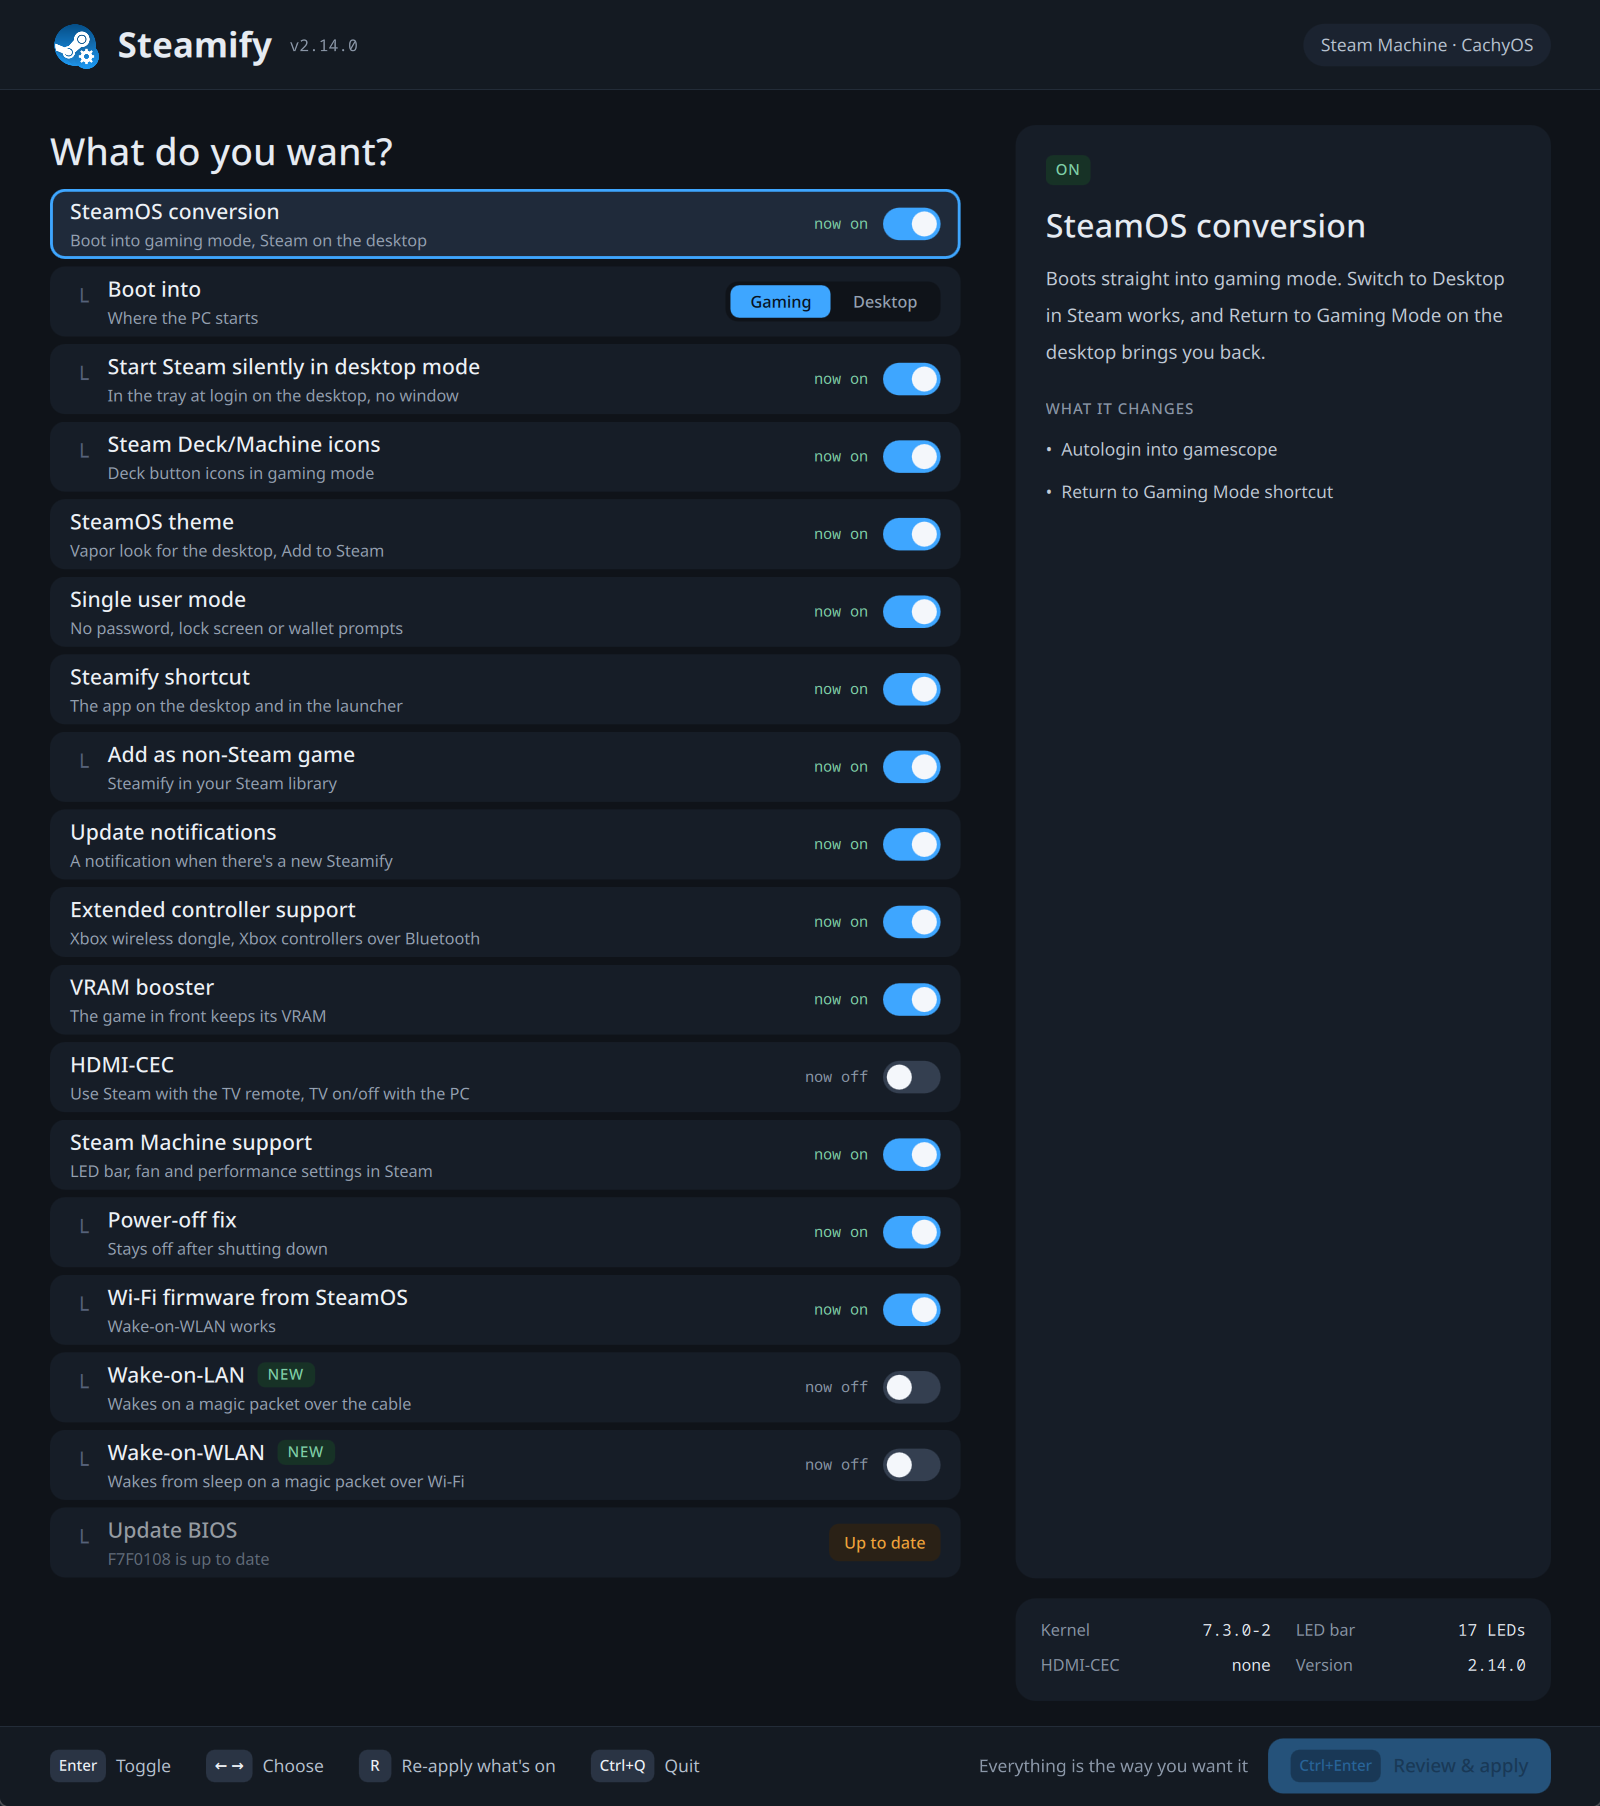
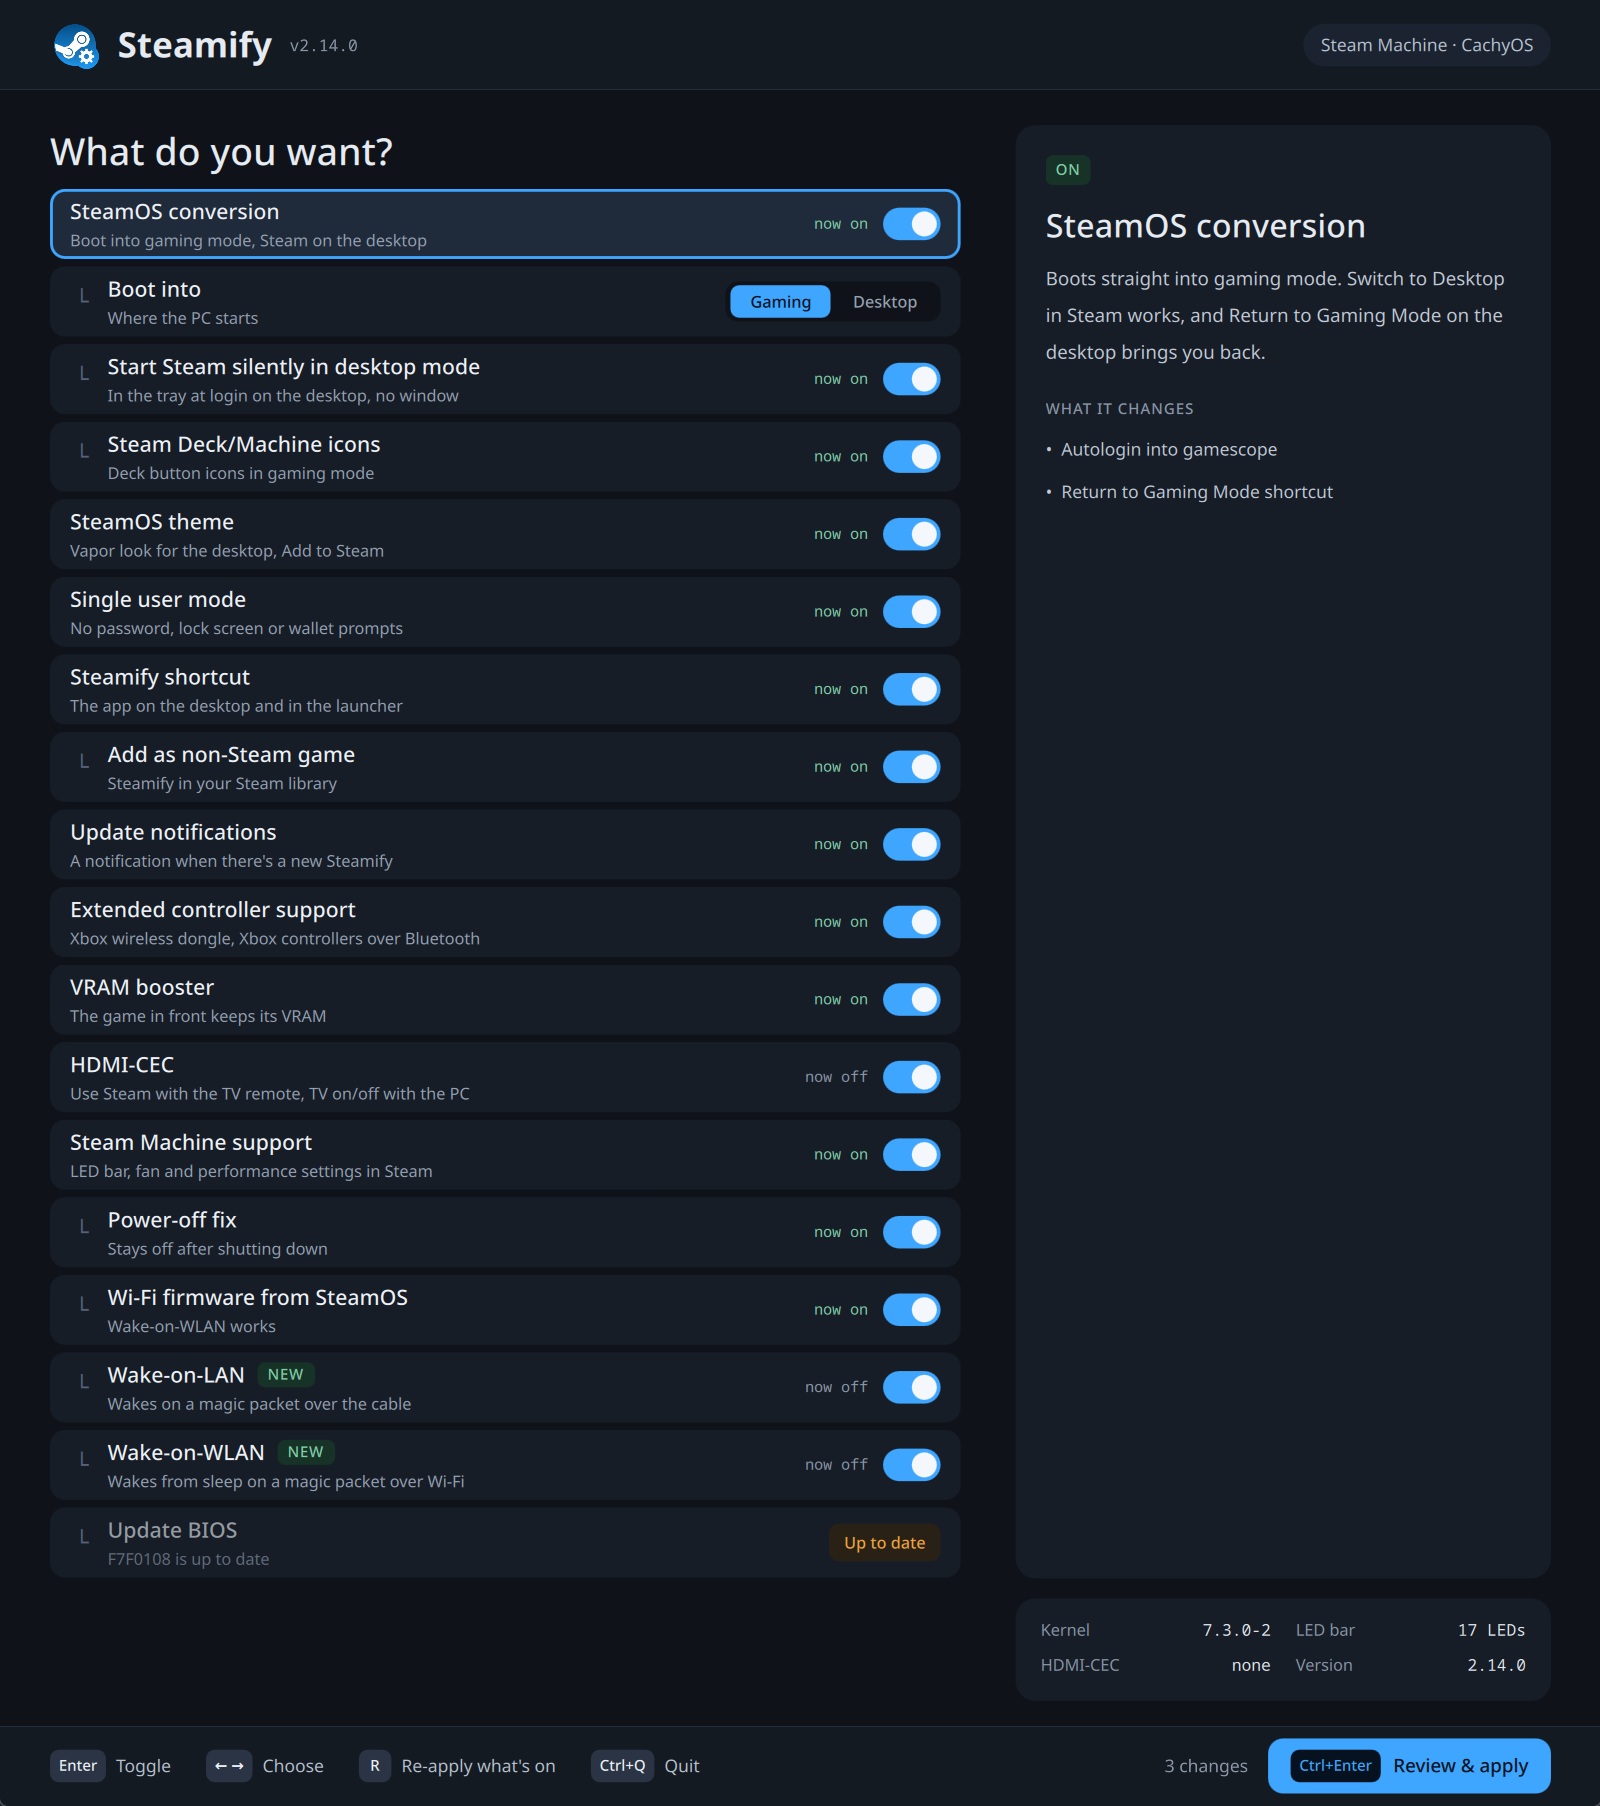
docs: the README screenshot shows every option switched on

Changed region(s): [[0.7188, 0.9612, 0.9688, 1.0], [0.5312, 0.7442, 0.5938, 0.8372], [0.5312, 0.5891, 0.5938, 0.6202]]

diff --git a/CHANGELOG.md b/CHANGELOG.md
@@ -11,7 +11,8 @@ one per merged pull request.
 - `b0437e1` **fix: Wake-on-WLAN on the Steam Machine woke it up again at once: CachyOS's Wi-Fi firmware (`amss.bin` of the Qualcomm QCA2066 adapter) is another build than SteamOS's, with the same version number. New opt-in sub-option of Steam Machine support, "Wi-Fi firmware from SteamOS" (`wifi`): installs Valve's build (`linux-firmware-holo`, holo-main, checksum verified) into `/usr/lib/firmware/updates`, so `linux-firmware` updates don't undo it; off removes the file. `fetch_holo_pkg` takes an optional repository. Reported and found by a user (#108)**
 - `274158e` **feat: the Wi-Fi firmware option shows which build is in use (SteamOS's, CachyOS's or another) in its menu row, and installs nothing when `linux-firmware` already ships Valve's build (#108)**
 - `e0afb77` **feat: new opt-in sub-options of Steam Machine support, "Wake-on-LAN" and "Wake-on-WLAN" (`wol`, `wowlan`): the Steam Machine wakes on a magic packet over the cable (from sleep, and from power-off when the BIOS allows it) or over Wi-Fi (from sleep). Each is one NetworkManager drop-in, so the setting survives a restart; off removes it. Wake-on-WLAN brings the Wi-Fi firmware item along. Not released yet: untested on the hardware (`.no-release-yet`) (#108)**
-- **docs: new README screenshot: the 2.14.0 menu on a Steam Machine, with the Wi-Fi firmware, Wake-on-LAN and Wake-on-WLAN rows**
+- **docs: the README screenshot shows every option switched on (not applied)**
+- `80e0f93` **docs: new README screenshot: the 2.14.0 menu on a Steam Machine, with the Wi-Fi firmware, Wake-on-LAN and Wake-on-WLAN rows**
 - `5545a9c` **fix: Steam started silently on the desktop ("Start Steam silently in desktop mode") lost the Steam Beta choice after a reboot or a switch between gaming mode and the desktop, and downloaded client updates again: the autostart entry started Steam as `steam -silent` while gaming mode uses `-steamdeck`, so the two sessions disagreed on the client branch. The entry is now `steam -steamdeck -silent` (no `-gamepadui`: the desktop UI is unchanged); existing installs get it re-applied as an update (feature version 2.14.0). The Steam restart after "Add as non-Steam game" edits the shortcuts starts it with `-steamdeck` too, but only while the SteamOS conversion is on. Reported and fixed by a user (#109)**
 
 ## 2.13.2 - 2026-10-19
